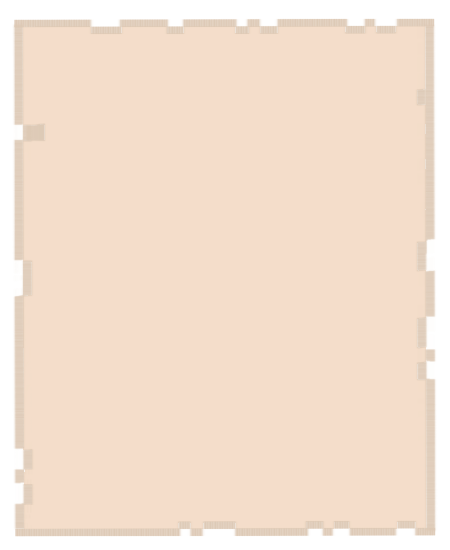
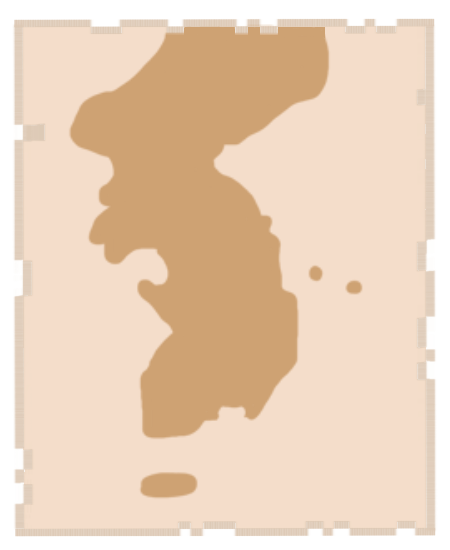
Feat: 사진 지도 api 연결 (#133)

diff --git a/src/components/groupSpace/photoHeatmap/PhotoHeatMap.jsx b/src/components/groupSpace/photoHeatmap/PhotoHeatMap.jsx
@@ -1,15 +1,84 @@
-import { useEffect } from 'react';
-import data from './dummy';
+import { useEffect, useState } from 'react';
 import dotImages from './dotImages';
+import basemap from './basemap';
+import data from './dummy';
+import refresh from '../../../assets/heatmap/refresh.png';
 import emptyImg from '../../../assets/heatmap/empty.png';
+import PhotoApi from '../../../apis/PhotoApi';
+import GroupApi from '../../../apis/GroupApi';
 
 const imgList = {
-  0: [dotImages.dot1_1, dotImages.dot1_2, dotImages.dot1_3, dotImages.dot1_4],
-  1: [dotImages.dot2_1, dotImages.dot2_2, dotImages.dot2_3, dotImages.dot2_4],
-  2: [dotImages.dot3_1, dotImages.dot3_2, dotImages.dot3_3, dotImages.dot3_4],
+  RED: [dotImages.dot1_1, dotImages.dot1_2, dotImages.dot1_3, dotImages.dot1_4],
+  GREEN: [
+    dotImages.dot2_1,
+    dotImages.dot2_2,
+    dotImages.dot2_3,
+    dotImages.dot2_4,
+  ],
+  BLUE: [
+    dotImages.dot3_1,
+    dotImages.dot3_2,
+    dotImages.dot3_3,
+    dotImages.dot3_4,
+  ],
 };
-const PhotoHeatMap = ({ onClose }) => {
-  const groupColor = 1;
+
+const PhotoHeatMap = ({ onClose, woomsId }) => {
+  const [photoData, setPhotoData] = useState();
+  const [groupColor, setGroupColor] = useState('RED');
+  const [error, setError] = useState();
+  const [isAdmin, setIsAdmin] = useState(false);
+  const colors = ['RED', 'GREEN', 'BLUE'];
+
+  const isAdminFunc = async () => {
+    try {
+      const data = await GroupApi.isAdmin(woomsId);
+      setIsAdmin(data.woomsAdmin);
+    } catch (err) {
+      console.error('Failed to check admin status:', err);
+      setError('Failed to check admin status.');
+    }
+  };
+
+  const getColor = async () => {
+    try {
+      const data = await GroupApi.getGroupInfo(woomsId);
+      setGroupColor(data.woomsDto.mapColorStatus);
+    } catch (err) {
+      setError('fail get group color');
+    }
+  };
+  const [heatmap, setHeatmap] = useState();
+
+  const generateHeatmap = (basemap, apiData) => {
+    const apiDataMap = apiData.reduce((acc, { id, count }) => {
+      acc[id] = count;
+      return acc;
+    }, {});
+
+    return basemap.map((row) =>
+      row.map((cell) =>
+        cell === -1 ? -1 : apiDataMap[cell] !== undefined ? apiDataMap[cell] : 0
+      )
+    );
+  };
+
+  const getMap = async () => {
+    if (!woomsId) return;
+    try {
+      const data = await PhotoApi.getMapInfo(woomsId);
+
+      setHeatmap(generateHeatmap(basemap, data));
+    } catch (err) {
+      setError('fail get photo info');
+    }
+  };
+
+  useEffect(() => {
+    getColor();
+    isAdminFunc();
+    getMap();
+  }, [woomsId]);
 
   const getImageSrc = (value) => {
     switch (true) {
@@ -25,15 +94,38 @@ const PhotoHeatMap = ({ onClose }) => {
         return imgList[groupColor][3];
     }
   };
+
+  const handleClose = () => {
+    saveColorToServer(groupColor); // 색상 서버에 저장
+    onClose(); // 모달 닫기
+  };
+
   const handleKeyDown = (e) => {
     if (e.key === 'Escape') {
-      onClose();
+      handleClose();
     }
   };
 
   const handleOutsideClick = (e) => {
     if (e.target.classList.contains('modal-overlay')) {
-      onClose();
+      handleClose();
+    }
+  };
+
+  const handleColorClick = async () => {
+    const currentIndex = colors.indexOf(groupColor);
+
+    const nextIndex = (currentIndex + 1) % colors.length;
+    const nextColor = colors[nextIndex];
+
+    setGroupColor(nextColor); // 상태 업데이트
+  };
+
+  const saveColorToServer = async (color) => {
+    try {
+      await GroupApi.changeGroupColor(woomsId, color);
+    } catch (err) {
+      setError('fail to change color');
     }
   };
 
@@ -50,11 +142,17 @@ const PhotoHeatMap = ({ onClose }) => {
       onClick={handleOutsideClick}
       className='modal-overlay fixed inset-0 bg-black bg-opacity-50 flex justify-center items-center'
     >
-      <div className='bg-modal-vertical bg-cover p-5 bg-center w-[470px] h-[550px] relative flex flex-col items-center'>
+      <div className='bg-modal-vertical bg-cover p-5 bg-center w-[520px] h-[600px] relative flex flex-col items-center'>
         <button
-          onClick={onClose}
+          onClick={handleClose}
           className='absolute top-8 left-8 w-6 h-6 bg-close-bt bg-cover'
         />
+        {isAdmin && (
+          <button
+            onClick={handleColorClick}
+            className='absolute bottom-11 right-[80px] bg-contain bg-hm-refresh z-10 w-5 h-5 bg-no-repeat'
+          />
+        )}
         <div className='absolute top-7 flex justify-center items-center'>
           <p className='text-3xl mt-1 text-base-color'>채 움</p>
           <div className='w-4' />
@@ -67,18 +165,19 @@ const PhotoHeatMap = ({ onClose }) => {
         </div>
 
         <div className='w-full flex justify-center mt-8'>
-          <div className='w-[350px] h-[450px] mt-5 bg-heatmap-bg bg-center bg-cover flex justify-center items-center'>
-            <div className='grid grid-cols-custom-19 gap-0.5 mr-4 mt-4'>
-              {data.map((row, rowIndex) =>
-                row.map((cell, cellIndex) => (
-                  <img
-                    key={`${rowIndex}-${cellIndex}`}
-                    src={cell === -1 ? emptyImageSrc : getImageSrc(cell)}
-                    className='w-4 h-4'
-                    alt={`cell-${rowIndex}-${cellIndex}`}
-                  />
-                ))
-              )}
+          <div className='w-[420px] h-[520px] mt-5 bg-heatmap-bg bg-center bg-cover flex justify-center items-center'>
+            <div className='grid grid-cols-custom-19 gap-0.5 ml-6 mt-40'>
+              {heatmap &&
+                heatmap.map((row, rowIndex) =>
+                  row.map((cell, cellIndex) => (
+                    <img
+                      key={`${rowIndex}-${cellIndex}`}
+                      src={cell === -1 ? emptyImageSrc : getImageSrc(cell)}
+                      className='w-[10px] h-[10px]'
+                      alt={`cell-${rowIndex}-${cellIndex}`}
+                    />
+                  ))
+                )}
             </div>
           </div>
         </div>

diff --git a/src/components/groupSpace/photoHeatmap/basemap.js b/src/components/groupSpace/photoHeatmap/basemap.js
@@ -1,37 +1,4 @@
-const map = [
-  [0, 0, 0, 0, 0, 0, 0, 0, 0, 0, 0, 0, 0, 0, 0, 0, 0, 0, 0],
-  [0, 0, 0, 0, 0, 0, 0, 0, 0, 0, 1, 2, 0, 0, 0, 0, 0, 0, 0],
-  [0, 0, 0, 0, 0, 0, 0, 3, 4, 5, 6, 7, 0, 0, 0, 0, 0, 0, 0],
-  [0, 0, 0, 8, 9, 10, 11, 12, 13, 14, 15, 16, 17, 0, 0, 0, 0, 0, 0],
-  [0, 0, 0, 0, 18, 19, 20, 21, 22, 23, 24, 25, 26, 0, 0, 0, 0, 0, 0],
-  [0, 0, 0, 0, 27, 28, 29, 30, 31, 32, 33, 34, 35, 0, 0, 158, 0, 0, 0],
-  [0, 0, 36, 37, 38, 39, 40, 41, 42, 43, 44, 45, 46, 0, 0, 0, 0, 0, 159],
-  [0, 0, 47, 48, 49, 50, 51, 52, 53, 54, 55, 56, 57, 58, 0, 0, 0, 0, 0],
-  [0, 0, 0, 59, 60, 61, 62, 63, 64, 65, 66, 67, 68, 69, 0, 0, 0, 0, 0],
-  [0, 0, 0, 0, 70, 71, 72, 73, 74, 75, 76, 77, 78, 79, 0, 0, 0, 0, 0],
-  [0, 0, 0, 0, 80, 81, 82, 83, 84, 85, 86, 87, 88, 0, 0, 0, 0, 0, 0],
-  [0, 0, 0, 89, 90, 91, 92, 93, 94, 95, 96, 97, 98, 0, 0, 0, 0, 0, 0],
-  [
-    0, 0, 0, 99, 100, 101, 102, 103, 104, 105, 106, 107, 108, 109, 0, 0, 0, 0,
-    0,
-  ],
-  [
-    0, 0, 110, 111, 112, 113, 114, 115, 116, 117, 118, 119, 120, 0, 0, 0, 0, 0,
-    0,
-  ],
-  [0, 0, 121, 122, 123, 124, 125, 126, 127, 128, 129, 130, 0, 0, 0, 0, 0, 0, 0],
-  [0, 0, 131, 132, 133, 134, 135, 136, 137, 138, 139, 140, 0, 0, 0, 0, 0, 0, 0],
-  [0, 0, 141, 142, 143, 144, 145, 146, 0, 0, 147, 0, 0, 0, 0, 0, 0, 0, 0],
-  [0, 0, 148, 149, 150, 151, 0, 0, 0, 0, 0, 0, 0, 0, 0, 0, 0, 0, 0],
-  [0, 0, 0, 0, 0, 0, 0, 0, 0, 0, 0, 0, 0, 0, 0, 0, 0, 0, 0],
-  [0, 0, 0, 0, 0, 0, 0, 0, 0, 0, 0, 0, 0, 0, 0, 0, 0, 0, 0],
-  [0, 0, 0, 0, 0, 0, 0, 0, 0, 0, 0, 0, 0, 0, 0, 0, 0, 0, 0],
-  [0, 0, 0, 152, 153, 154, 0, 0, 0, 0, 0, 0, 0, 0, 0, 0, 0, 0, 0],
-  [0, 0, 155, 156, 157, 0, 0, 0, 0, 0, 0, 0, 0, 0, 0, 0, 0, 0, 0],
-  [0, 0, 0, 0, 0, 0, 0, 0, 0, 0, 0, 0, 0, 0, 0, 0, 0, 0, 0],
-];
-
-const map2 = [
+const basemap = [
   [-1, -1, -1, -1, -1, -1, -1, -1, -1, -1, -1, -1, -1, -1, -1, -1, -1, -1, -1],
   [-1, -1, -1, -1, -1, -1, -1, -1, -1, -1, 1, 2, -1, -1, -1, -1, -1, -1, -1],
   [-1, -1, -1, -1, -1, -1, -1, 3, 4, 5, 6, 7, -1, -1, -1, -1, -1, -1, -1],
@@ -81,3 +48,5 @@ const map2 = [
   ],
   [-1, -1, -1, -1, -1, -1, -1, -1, -1, -1, -1, -1, -1, -1, -1, -1, -1, -1, -1],
 ];
+
+export default basemap;

diff --git a/src/world/Map.jsx b/src/world/Map.jsx
@@ -14,7 +14,8 @@ const outlineStyle = new OutlineFilter(4, 0xbcff89);
 const Map = () => {
   const width = window.screen.width;
   const height = window.screen.height;
-
+  const pathname = window.location.pathname;
+  const woomsId = pathname.split('/')[2];
   const userInfo = useSelector((state) => state.auth.userInfo);
   const dispatch = useDispatch();
 
@@ -182,9 +183,15 @@ const Map = () => {
           />
         </Container>
       </Stage>
-      {isOpenPhoto && <PhotoModal onClose={handleClosePhoto} />}
-      {isOpenPhotomap && <PhotoHeatMap onClose={handleClosePhotomap} />}
-      {isOpenGuestbook && <CommentModal onClose={handleCloseGuestbook} />}
+      {isOpenPhoto && (
+        <PhotoModal onClose={handleClosePhoto} woomsId={woomsId} />
+      )}
+      {isOpenPhotomap && (
+        <PhotoHeatMap onClose={handleClosePhotomap} woomsId={woomsId} />
+      )}
+      {isOpenGuestbook && (
+        <CommentModal onClose={handleCloseGuestbook} woomsId={woomsId} />
+      )}
     </div>
   );
 };

diff --git a/tailwind.config.js b/tailwind.config.js
@@ -34,6 +34,7 @@ export default {
         'inputbox-story': 'url(./assets/story/input-box-story.png)',
         'bgm-o': 'url(./assets/menu/bgm-o.png)',
         'bgm-x': 'url(./assets/menu/bgm-x.png)',
+        'hm-refresh': 'url(./assets/heatmap/refresh.png)',
         menu: 'url(./assets/menu/menu.png)',
         'inputbox-comment': 'url(./assets/comment/input-box.png)',
         'dialoguebox-comment': 'url(./assets/comment/dialoge-box.png)',

diff --git a/src/apis/PhotoApi.js b/src/apis/PhotoApi.js
@@ -1,0 +1,18 @@
+import basicAxios from '../libs/axios/basicAxios';
+
+const getMapInfo = async (woomsId) => {
+  try {
+    const res = await basicAxios({
+      method: 'get',
+      url: `/wooms/${woomsId}/map`,
+    });
+    return res.data;
+  } catch (err) {
+    throw err;
+  }
+};
+
+const PhotoApi = {
+  getMapInfo,
+};
+export default PhotoApi;
